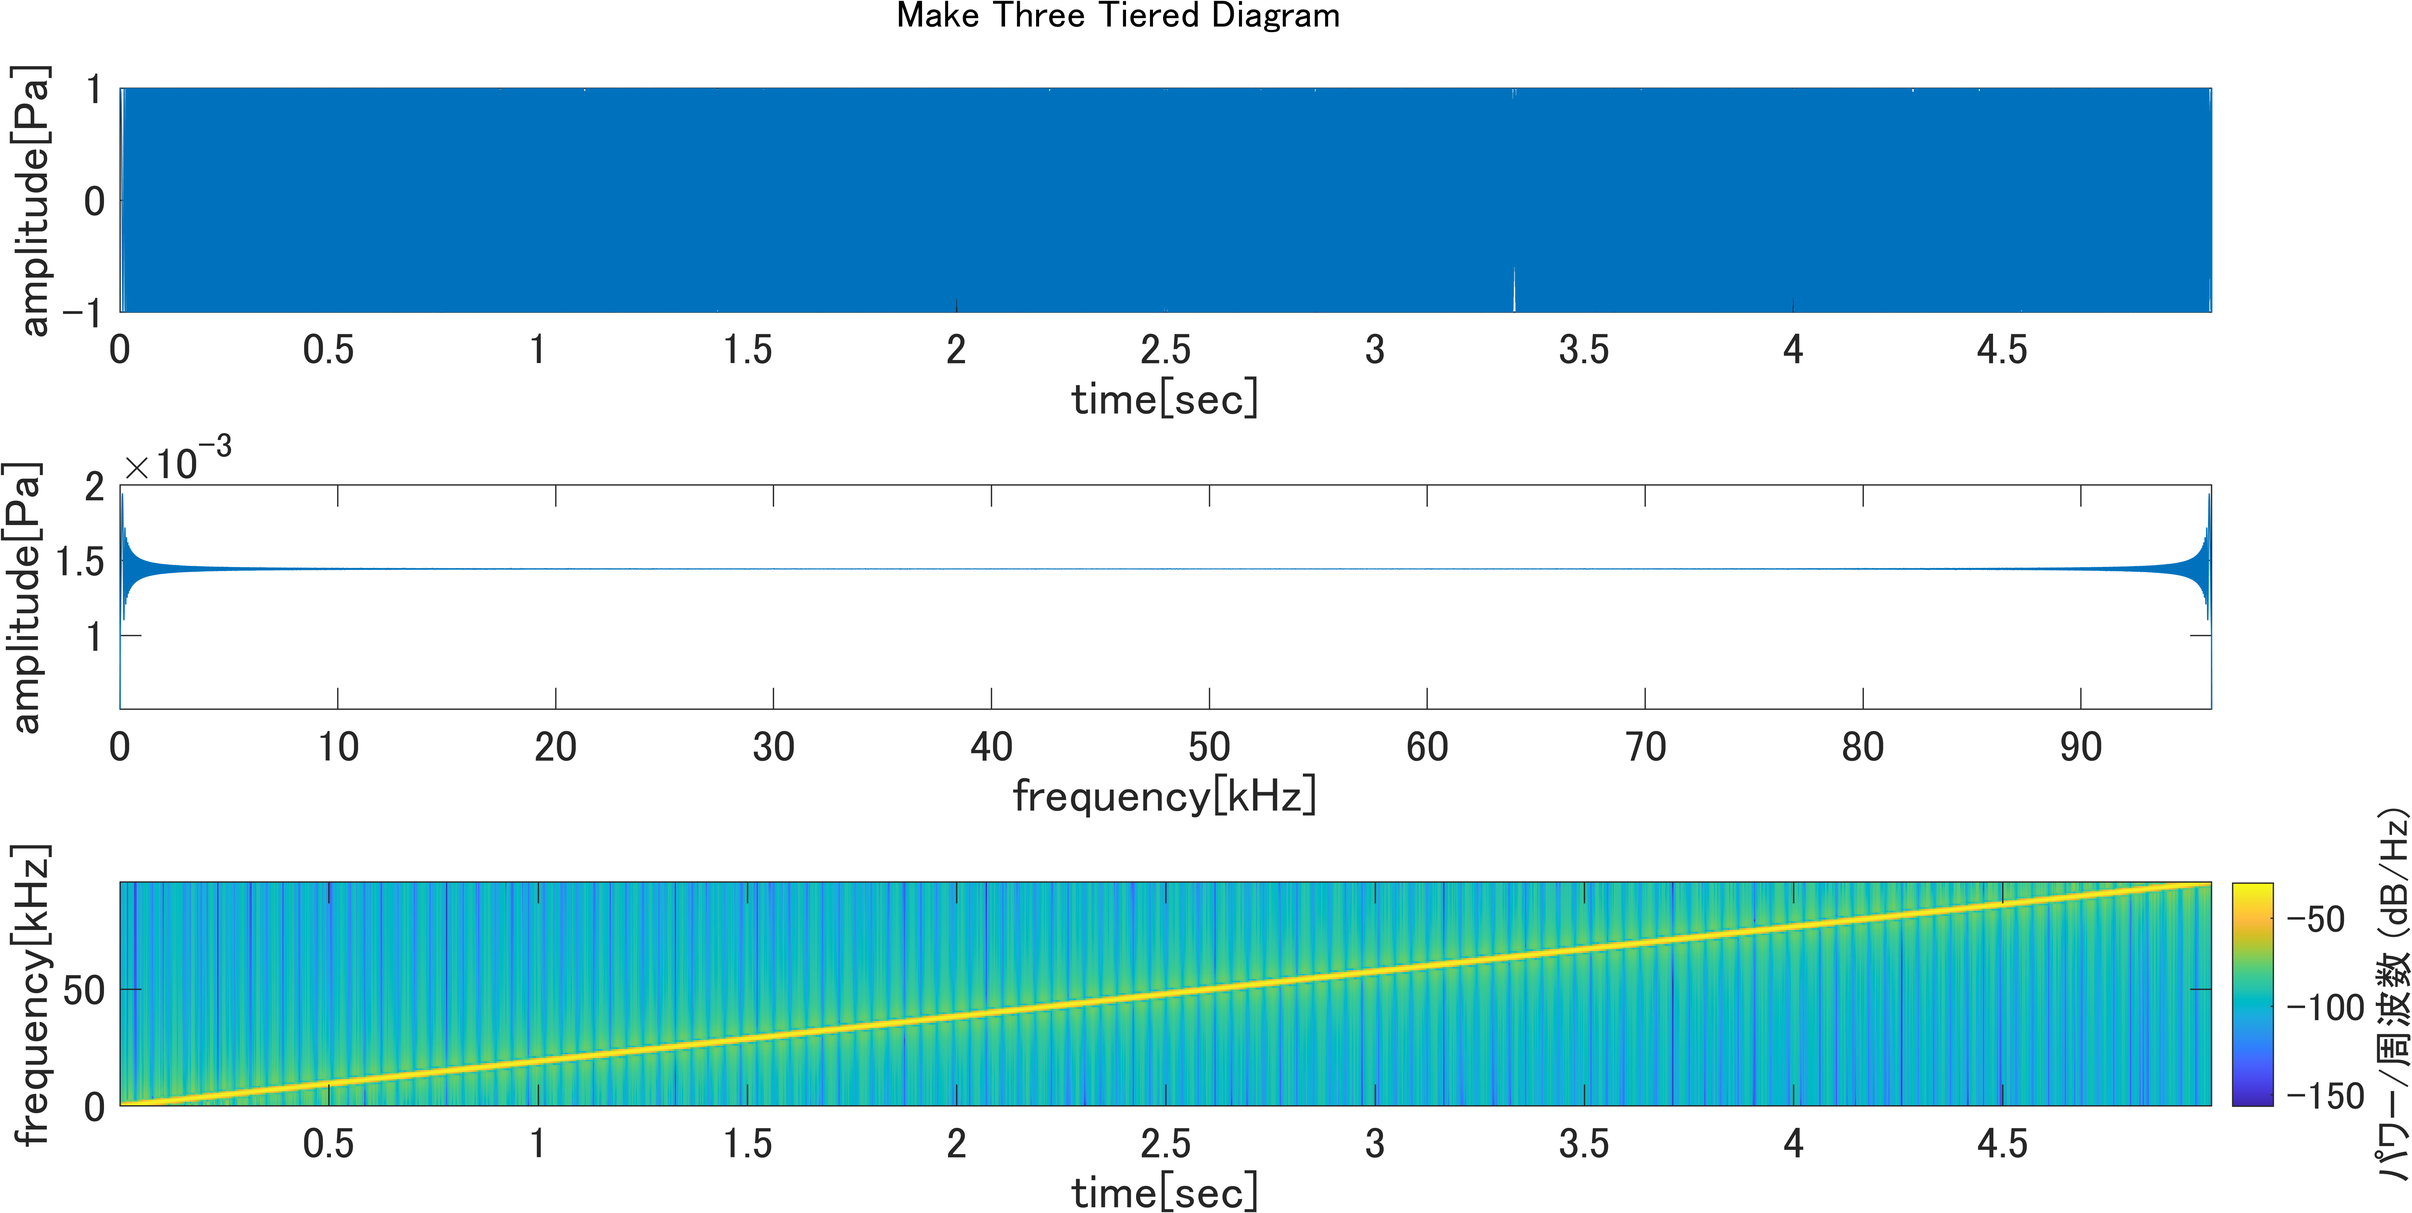
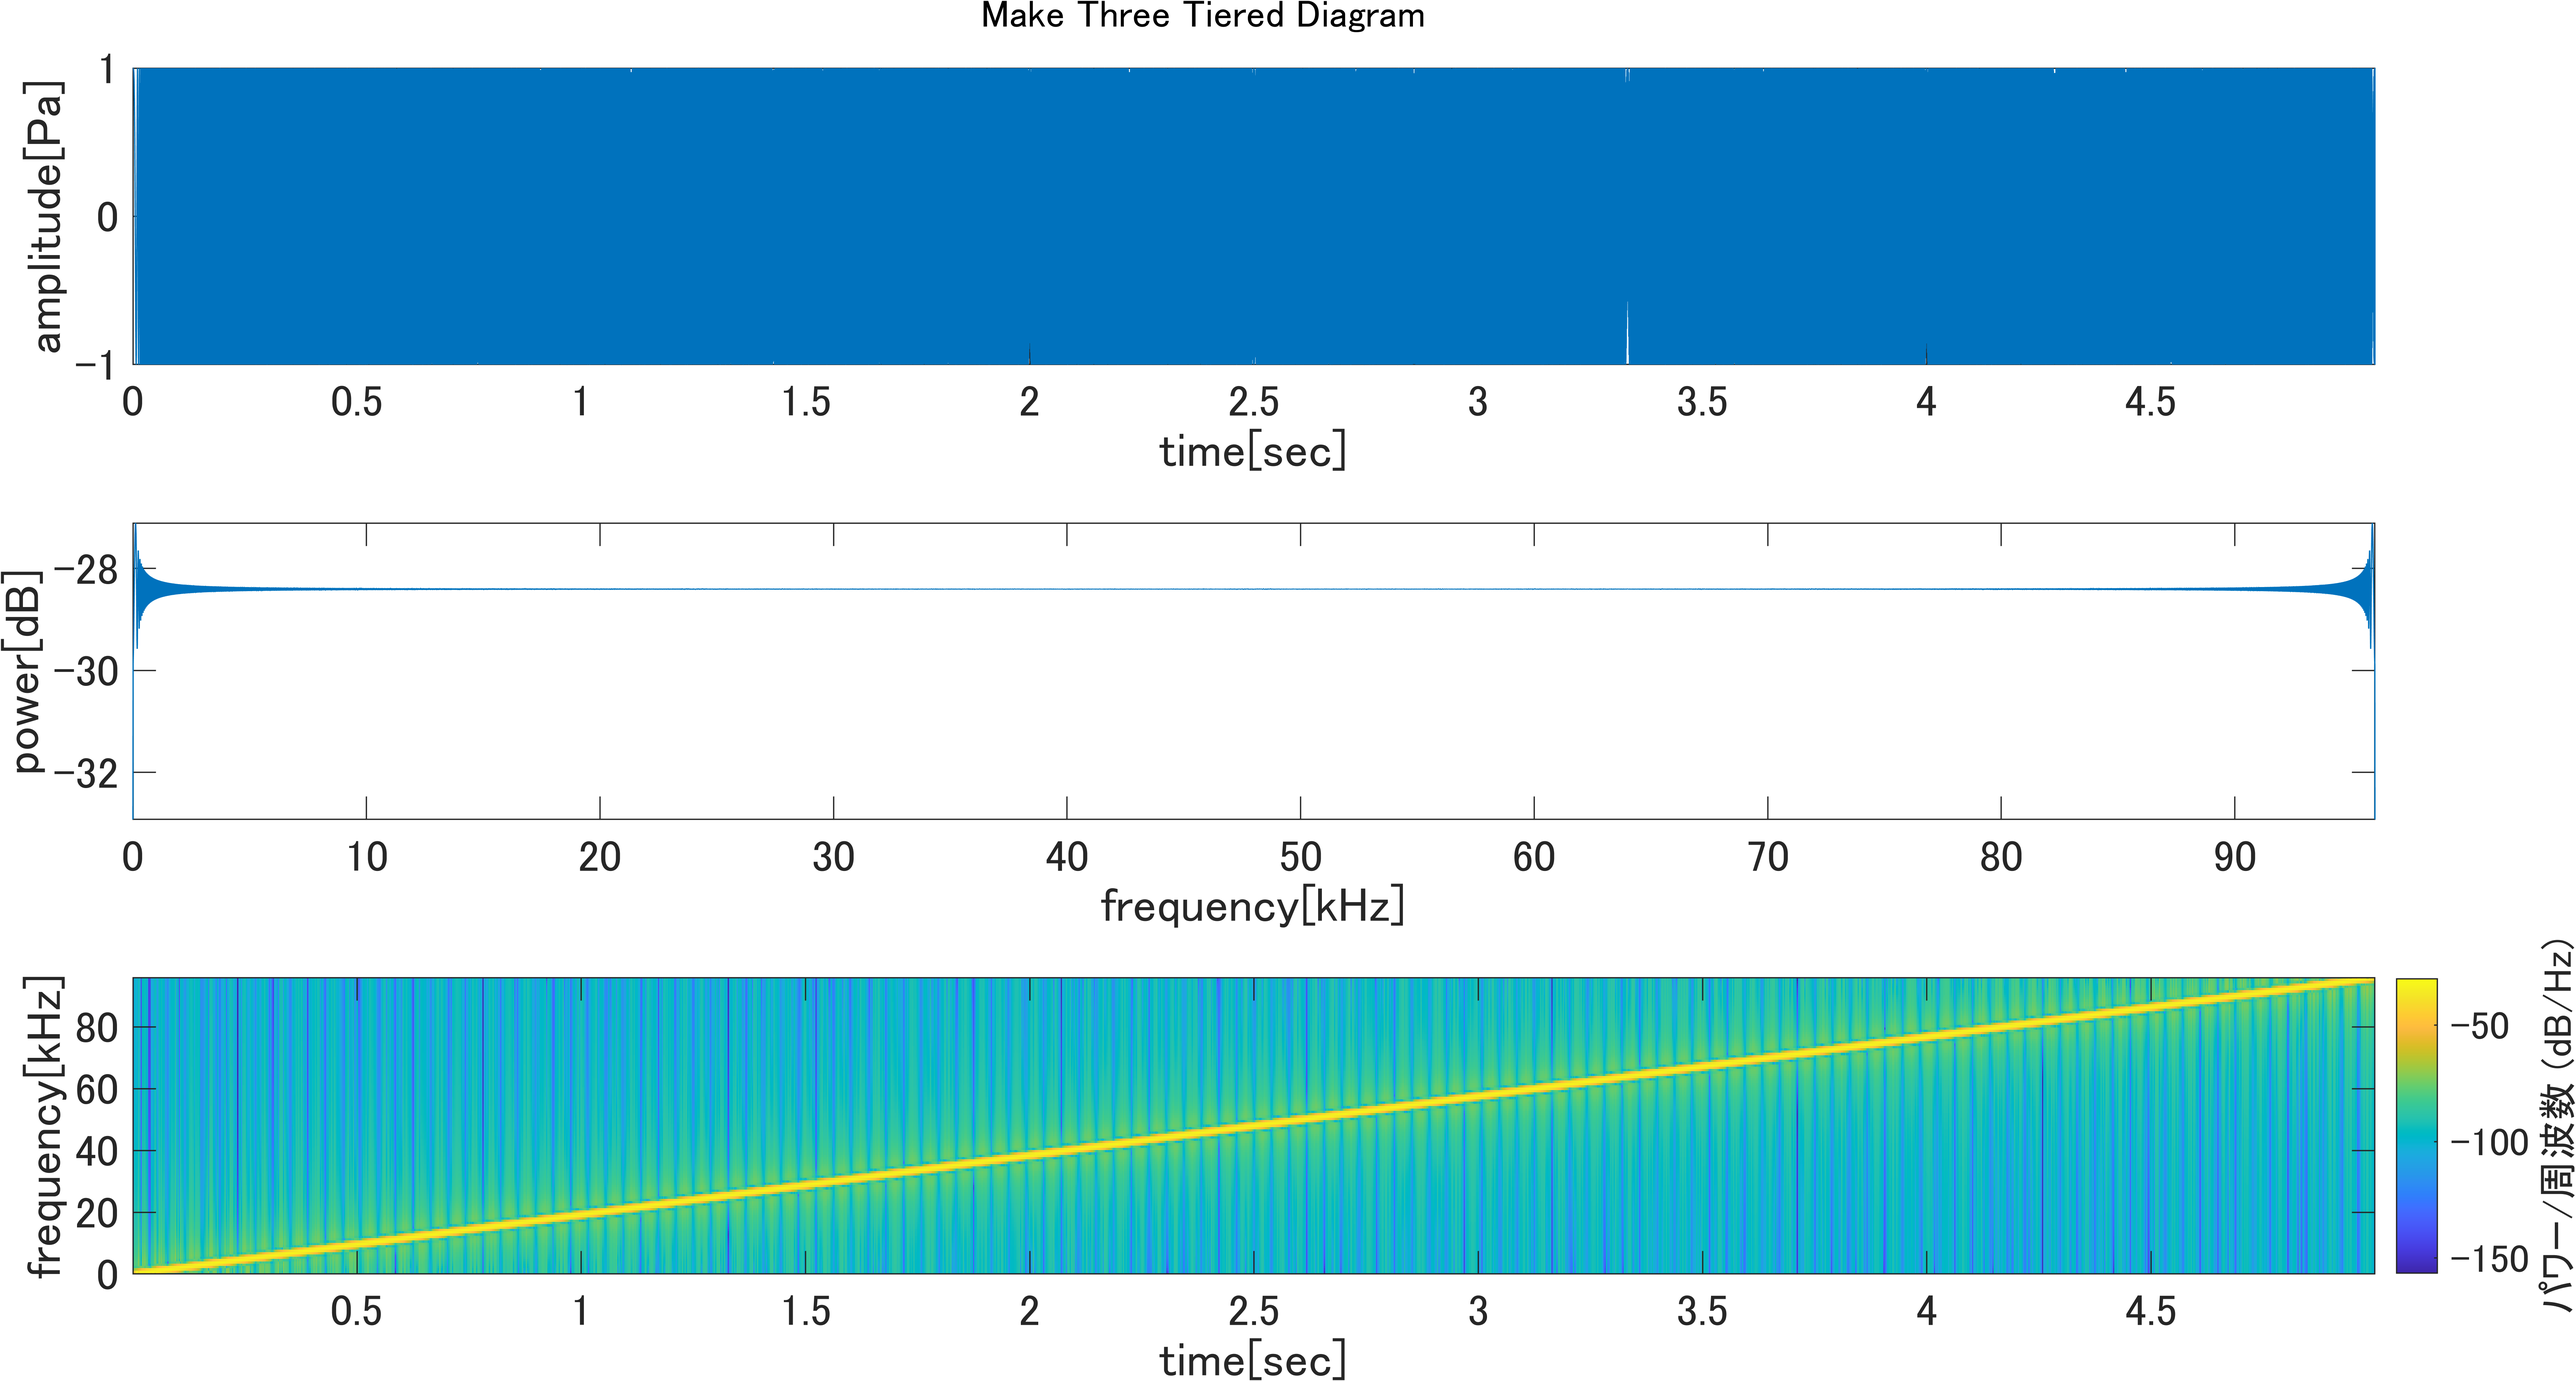
関数化した

diff --git a/2021/make_three_tiered_diagram.m b/2021/make_three_tiered_diagram.m
@@ -29,57 +29,97 @@ ax.FontSize = 20;
 f = gcf;
 exportgraphics(f,'./make_three_tiered_diagram/chirp.png','Resolution',500);
 
-%% 三段にしてプロットを行う
-figure('position', [0, 0, 1400, 700]);
-
-sgtitle('Make Three Tiered Diagram');
-
-%% チャープ信号のプロット
-s1 = subplot(3,1,1);
-plot( t , y );
-ylabel( 'amplitude[Pa]' );
-xlabel( 'time[sec]' );
-xlim([ t(1) t(end) ]);
-ax = gca;
-ax.FontSize = 17;
-
-%% チャープ信号のフーリエ変換片側表示
-s2 = subplot(3,1,2);
-
-Y = fft( y );
-L = length( y );
-A = abs( Y/L );
-A = A(1:L/2+1);
-A(2:end-1) = 2*A(2:end-1);
-f = fs*(0:(L/2))/L;
-
-plot( f/1e3 , A );
-ylabel( 'amplitude[Pa]' );
-xlabel( 'frequency[kHz]' );
-xlim([ f(1)/1e3 f(end)/1e3 ]);
-ax = gca;
-ax.FontSize = 17;
-
-%% チャープ信号のスペクトグラム
-Temporal_Sensitivity_Profile = 0.1;
-s3 = subplot(3,1,3);
-% pspectrum(y,fs,'spectrogram','TimeResolution',Temporal_Sensitivity_Profile);
-spectrogram(y,256,120,256,fs,'yaxis');
-ylim([ f(1)/1e3 f(end)/1e3 ]);
-ylabel( 'frequency[kHz]' );
-xlabel( 'time[sec]' );
-ax = gca;
-ax.FontSize = 17;
-
-s1Pos = get(s1,'position');
-s2Pos = get(s2,'position');
-s3Pos = get(s3,'position');
-s2Pos(3:4) = [s1Pos(3:4)];
-s3Pos(3:4) = [s1Pos(3:4)];
-set(s2,'position',s2Pos);
-set(s3,'position',s3Pos);
-
-f = gcf;
-exportgraphics(f,'./make_three_tiered_diagram/chirp_three_tiered_diagram.png','Resolution',500);
+%% 三段の図を作成する
+func_make_three_tiered_diagram(t,y,fs,0,'./make_three_tiered_diagram/chirp_three_tiered_diagram.png');
 
 %% end %%
+
+function func_make_three_tiered_diagram(t,y,fs,random,filename)
+  % 三段にしてプロットを行う
+  figure('position', [0, 0, 1500, 800]);
+
+  sgtitle('Make Three Tiered Diagram');
+
+  % チャープ信号のプロット
+  s1 = subplot(3,1,1);
+  plot( t , y );
+  ylabel( 'amplitude[Pa]' );
+  xlabel( 'time[sec]' );
+  xlim([ t(1) t(end) ]);
+  ax = gca;
+  ax.FontSize = 17;
+
+
+  if random == 1
+    % 信号のパワースペクトル密度
+    s2 = subplot(3,1,2);
+
+    N = length(y);
+    xdft = fft(y);
+    xdft = xdft(1:N/2+1);
+    psdx = (1/(fs*N)) * abs(xdft).^2;
+    psdx(2:end-1) = 2*psdx(2:end-1);
+    freq = 0:fs/length(y):fs/2;
+
+    plot(freq/1e3,10*log10(psdx));
+    xlabel('frequency[Hz]');
+    ylabel('power/frequency[dB/Hz]');
+
+    xlim([ freq(1)/1e3 freq(end)/1e3 ]);
+    ax = gca;
+    ax.FontSize = 17;
+
+    % 信号のスペクトグラム
+    Temporal_Sensitivity_Profile = 0.1;
+    s3 = subplot(3,1,3);
+    % pspectrum(y,fs,'spectrogram','TimeResolution',Temporal_Sensitivity_Profile);
+    spectrogram(y,256,120,256,fs,'yaxis');
+    ylim([ freq(1)/1e3 freq(end)/1e3 ]);
+    ylabel( 'frequency[kHz]' );
+    xlabel( 'time[sec]' );
+    ax = gca;
+    ax.FontSize = 17;
+  else
+    % 信号のパワースペクトル
+    s2 = subplot(3,1,2);
+
+    Y = fft( y );
+    L = length( y );
+    A = abs( Y/L );
+    A = A(1:L/2+1);
+    A(2:end-1) = 2*A(2:end-1);
+    f = fs*(0:(L/2))/L;
+
+    plot( f/1e3 , 10*log10(A) );
+    ylabel( 'power[dB]' );
+    xlabel( 'frequency[kHz]' );
+    xlim([ f(1)/1e3 f(end)/1e3 ]);
+    ax = gca;
+    ax.FontSize = 17;
+
+    % 信号のスペクトグラム
+    Temporal_Sensitivity_Profile = 0.1;
+    s3 = subplot(3,1,3);
+    % pspectrum(y,fs,'spectrogram','TimeResolution',Temporal_Sensitivity_Profile);
+    spectrogram(y,256,120,256,fs,'yaxis');
+    ylim([ f(1)/1e3 f(end)/1e3 ]);
+    ylabel( 'frequency[kHz]' );
+    xlabel( 'time[sec]' );
+    ax = gca;
+    ax.FontSize = 17;
+  end
+
+  s1Pos = get(s1,'position');
+  s2Pos = get(s2,'position');
+  s3Pos = get(s3,'position');
+  s2Pos(3:4) = [s1Pos(3:4)];
+  s3Pos(3:4) = [s1Pos(3:4)];
+  set(s2,'position',s2Pos);
+  set(s3,'position',s3Pos);
+
+  if filename ~= 0
+    f = gcf;
+    exportgraphics(f,filename,'Resolution',500);
+  end
+
+end
